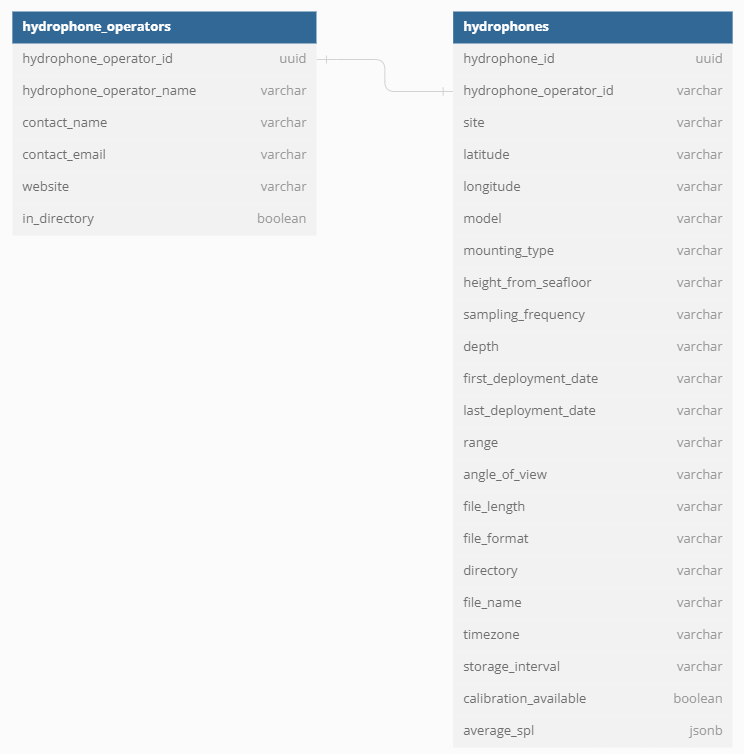
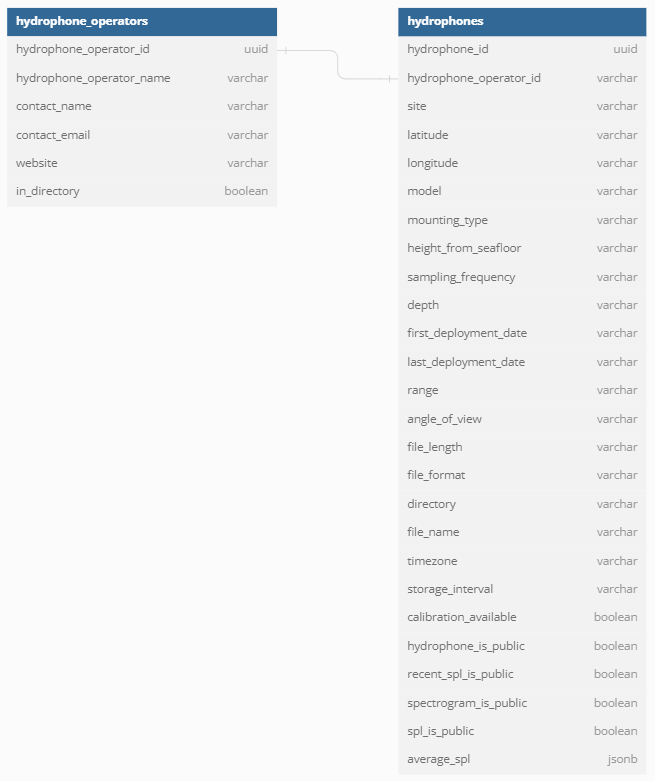
Update ArchitectureDeepDive.md

diff --git a/docs/ArchitectureDeepDive.md b/docs/ArchitectureDeepDive.md
@@ -67,6 +67,51 @@
 | timezone | The timezone of the hydrophone
 | storage_interval | How often files are stored
 | calibration_available | Whether or not calibration data is available for the hydrophone 
+| hydrophone_is_public | Whether or not all hydrophone data is public (visible on map page)
+| recent_spl_is_public | Whether or not recent spl metric (gauge charts) is public (visible on map page)
+| spectrogram_is_public | Whether or not spectrograms are public (visible on map page)
+| spl_is_public | Whether or not spl graph is public (visible on map page)
 | average_spl | Average monthly sound pressure level values, calculated daily
 
+## S3 Structure
+
+```
+.
+├── hydrophone/
+│   ├── spl/
+│   │   └── year/
+│   │       └── month/
+│   │           └── day/
+│   │               └── timestamp.json
+│   ├── biospl/
+│   │   └── year/
+│   │       └── month/
+│   │           └── day/
+│   │               └── timestamp.json
+│   ├── spectrogram/
+│   │   └── year/
+│   │       └── month/
+│   │           └── day/
+│   │               └── timestamp.png
+│   └── calibration.csv
+└── download/
+    └── NoiseTrackerDownload_##########.zip
+```
+
+
+1. `/hydrophone`: Contains objects associated with the hydrophone
+    - `/spl`: Contains objects with individual frequency spl data
+        - `/year`: Contains objects with data that is from a certain year
+            - `/month`: Contains objects with data from a certain month
+                - `/day`: Contains objects with data from a certain day
+    - `/biospl`: Contains all of the objects containing banded spl data (e.g., a band could be 10-100Hz)
+        - `/year`: Contains objects with data that is from a certain year
+            - `/month`: Contains objects with data from a certain month
+                - `/day`: Contains objects with data from a certain day
+    - `/spectrogram`: Contains all of the images containing 60 second spectrograms
+        - `/year`: Contains objects with data that is from a certain year
+            - `/month`: Contains objects with data from a certain month
+                - `/day`: Contains objects with data from a certain day
+
+2. `/download`: Contains all of the zip objects generated by operators, objects with the "download/" prefix are automatically deleted after 1 day
 
